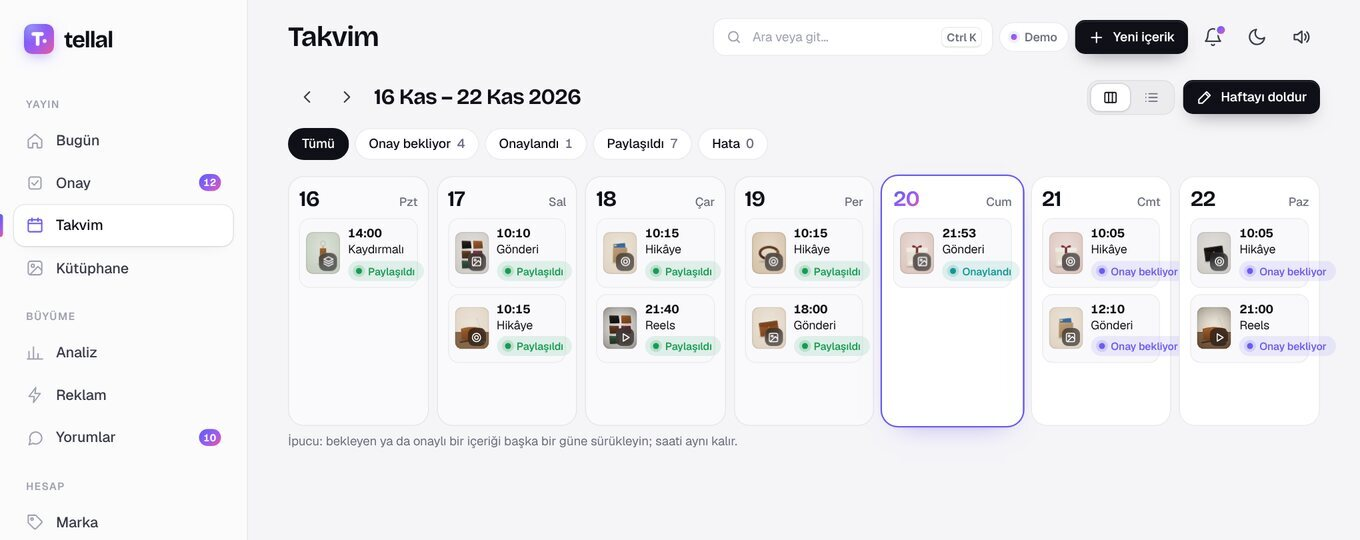
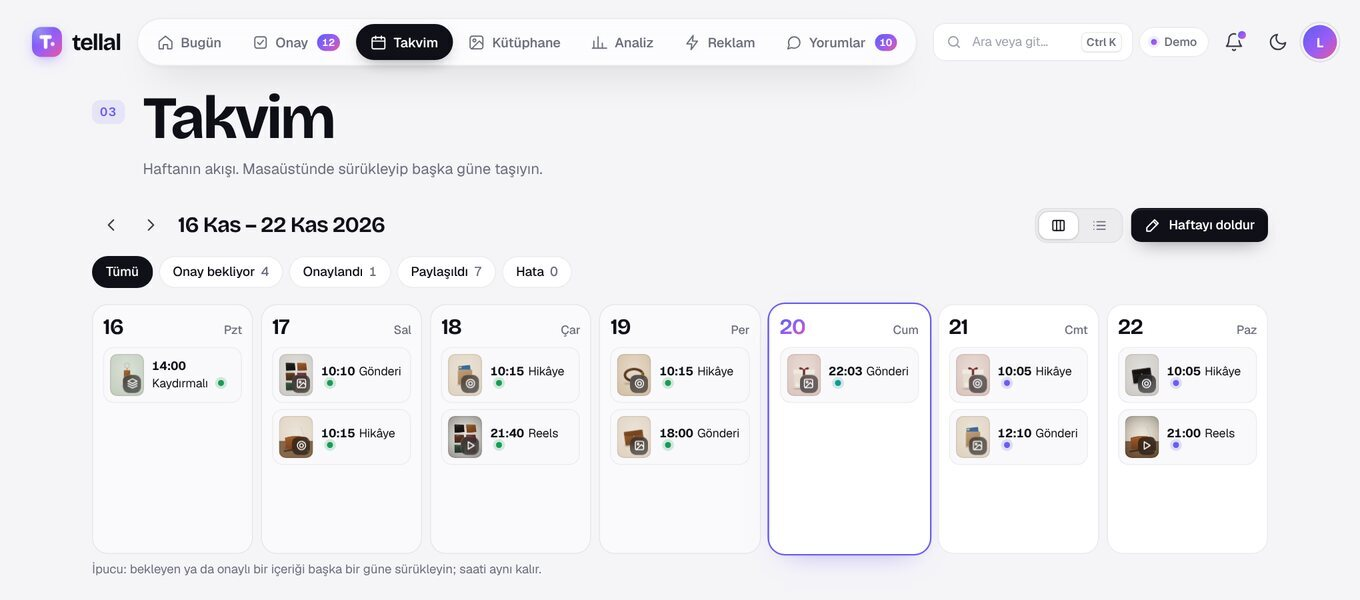
New layout: floating section bar with sliding lens, account menu, editorial page headers, bento home

diff --git a/src/tellal/static/app.js b/src/tellal/static/app.js
@@ -250,12 +250,21 @@ function paintNav() {
   $("#tabs").innerHTML = ROUTES.filter((r) => r.tab).map((r) => `<a class="tab" href="#/${r.id}" ${r.id === cur ? 'aria-current="page"' : ""}>${ic(r.icon)}<span>${t(r.key)}</span>${badge(r)}</a>`).join("")
     + `<button class="tab" id="moreTab" ${moreActive ? 'aria-current="page"' : ""}>${ic("menu")}<span>${t("more")}</span>${(S.state?.counts.comments ? '<span class="badge">' + S.state.counts.comments + "</span>" : "")}</button>`;
   $("#moreTab").onclick = () => { snd("tap"); openMore(); };
-  const link = (r) => `<a href="#/${r.id}" ${r.id === cur ? 'aria-current="page"' : ""}>${ic(r.icon)}<span>${t(r.key)}</span>${badge(r)}</a>`;
-  const groups = [[L("Yayın", "Publishing"), ["", "onay", "takvim", "kutuphane"]], [L("Büyüme", "Growth"), ["analiz", "reklam", "yorumlar"]], [L("Hesap", "Account"), ["marka", "ayarlar"]]];
-  const acc = S.state?.accounts?.[0];
-  $("#side").innerHTML = `<div class="brand"><span class="logo"></span><span class="wordmark">tellal</span></div>`
-    + groups.map(([g, ids]) => `<div class="group">${g}</div>` + ids.map((id) => link(ROUTES.find((r) => r.id === id))).join("")).join("")
-    + `<div class="foot"><span class="av">${esc((S.state?.brand?.name || "T").trim().slice(0, 1).toLocaleUpperCase("tr"))}</span><span class="grow"><b class="ellipsis">${esc(S.state?.brand?.name || "")}</b>${acc ? "@" + esc(acc.username) + " · " : ""}${S.state?.mode === "demo" ? L("demo", "demo") : "Instagram"}</span></div>`;
+  // Desktop: a floating glass bar in the middle of the header; a lens slides to the current page.
+  const navIds = ["", "onay", "takvim", "kutuphane", "analiz", "reklam", "yorumlar"];
+  const tn = $("#topnav");
+  const prevLens = tn.querySelector(".lens");
+  const from = prevLens ? { x: prevLens.style.getPropertyValue("--x"), w: prevLens.style.getPropertyValue("--w") } : null;
+  tn.innerHTML = `<span class="lens" aria-hidden="true"></span>` + navIds.map((id) => { const r = ROUTES.find((x) => x.id === id); return `<a href="#/${id}" ${id === cur ? 'aria-current="page"' : ""}>${ic(r.icon)}<span class="lbl">${t(r.key)}</span>${badge(r)}</a>`; }).join("");
+  const lens = tn.querySelector(".lens"), act = tn.querySelector("[aria-current=page]");
+  if (from && from.w) { lens.style.setProperty("--x", from.x); lens.style.setProperty("--w", from.w); }
+  requestAnimationFrame(() => {
+    if (!act) { lens.style.opacity = 0; return; }
+    lens.style.opacity = 1;
+    lens.style.setProperty("--x", act.offsetLeft + "px"); lens.style.setProperty("--w", act.offsetWidth + "px");
+  });
+  tn.onpointerover = (e) => { const a2 = e.target.closest("a"); if (a2) { lens.style.setProperty("--x", a2.offsetLeft + "px"); lens.style.setProperty("--w", a2.offsetWidth + "px"); lens.style.opacity = 1; lens.classList.add("peek"); } };
+  tn.onpointerleave = () => { lens.classList.remove("peek"); if (act) { lens.style.setProperty("--x", act.offsetLeft + "px"); lens.style.setProperty("--w", act.offsetWidth + "px"); } else lens.style.opacity = 0; };
   const acts = $("#topActions");
   const mac = /Mac|iPhone|iPad/.test(navigator.platform || navigator.userAgent);
   acts.innerHTML = `<button class="searchbtn" id="cmdBtn">${ic("search")}<span>${L("Ara veya git…", "Search or jump to…")}</span><span class="kbd">${mac ? "⌘" : "Ctrl"} K</span></button>`
@@ -264,12 +273,12 @@ function paintNav() {
     + `<button class="btn sm primary newbtn" id="newBtn">${ic("plus")} ${t("newPost")}</button>`
     + `<button class="icon-btn" id="bellBtn" aria-label="${L("Bildirimler", "Notifications")}" title="${L("Bildirimler", "Notifications")}">${ic("bell")}${unread() ? '<span class="dotn"></span>' : ""}</button>`
     + `<button class="icon-btn" id="themeBtn" aria-label="${t("theme")}" title="${t("theme")}">${ic(isDark() ? "sun" : "moon")}</button>`
-    + `<button class="icon-btn" id="sndBtn" title="${t("sound")}" aria-label="${t("sound")}">${ic(kit && kit.enabled ? "sound" : "mute")}</button>`;
+    + `<button class="avatar" id="meBtn" aria-label="${L("Hesap menüsü", "Account menu")}" aria-haspopup="menu">${esc((S.state?.brand?.name || "T").trim().slice(0, 1).toLocaleUpperCase("tr"))}</button>`;
   const dc = $("#demoChip");
   if (dc) dc.onclick = () => { snd("tap"); sheet(`<p style="margin-top:0">${L("Bu, uydurma bir işletmenin (Lale Deri Atölyesi) hesabı. Planlar, paylaşımlar, yorumlar ve sayılar simüle edilir; gerçek Instagram'a hiçbir şey gitmez.", "This is a made-up business (Lale Deri Atölyesi). Plans, posts, comments and numbers are simulated; nothing goes to real Instagram.")}</p>
     <p>${S.state.in_browser ? L("Uygulamanın tamamı şu an bu tarayıcıda çalışıyor; verileriniz cihazınızdan çıkmaz.", "The whole app is running in this browser; your data stays on this device.") : L("Gerçek hesap bağlamak için README'deki 'Instagram bağlantısı' adımlarına bakın.", "To connect a real account, see 'Connecting Instagram' in the README.")}</p>
     <p class="hint">${L("İstediğiniz gibi kurcalayın: onaylayın, silin, fotoğraf yükleyin. Ayarlar → Demoyu sıfırla ile baştan başlarsınız.", "Play freely: approve, delete, upload. Settings → Reset demo starts over.")}</p>`, { title: L("Demo modu", "Demo mode") }); };
-  $("#sndBtn").onclick = () => { if (!kit) return; kit.setEnabled(!kit.enabled); snd("tap"); paintNav(); };
+  $("#meBtn").onclick = (e) => { e.stopPropagation(); meMenu(); };
   $("#cmdBtn").onclick = $("#cmdBtn2").onclick = () => palette();
   $("#themeBtn").onclick = (e) => toggleTheme(e);
   $("#bellBtn").onclick = () => notifications();
@@ -286,6 +295,33 @@ function openMore() {
   $("#moreSearch").onclick = () => setTimeout(palette, 50);
   $("#moreTheme").onclick = (e) => { toggleTheme(e); setTimeout(() => { $("#moreTheme").innerHTML = ic(isDark() ? "sun" : "moon"); }, 50); };
   $("#moreSnd").onclick = () => { if (!kit) return; kit.setEnabled(!kit.enabled); snd("tap"); $("#moreSnd").innerHTML = ic(kit.enabled ? "sound" : "mute"); paintNav(); };
+}
+
+// ------------------------------------------------------------------ account menu
+function meMenu() {
+  const old = $(".menu"); if (old) { old.remove(); return; }
+  snd("tap");
+  const acc = S.state?.accounts?.[0], cur = route().id;
+  const m = document.createElement("div");
+  m.className = "menu"; m.setAttribute("role", "menu");
+  m.innerHTML = `<div class="menu-head"><span class="avatar lg">${esc((S.state?.brand?.name || "T").trim().slice(0, 1).toLocaleUpperCase("tr"))}</span><div class="grow"><b class="ellipsis">${esc(S.state?.brand?.name || "")}</b><small>${acc ? "@" + esc(acc.username) : ""}${S.state?.mode === "demo" ? " · demo" : ""}</small></div></div>
+    <a href="#/marka" role="menuitem" ${cur === "marka" ? 'aria-current="page"' : ""}>${ic("tag")}${t("brand")}<small>${L("ses, ürünler, ritim", "voice, products")}</small></a>
+    <a href="#/ayarlar" role="menuitem" ${cur === "ayarlar" ? 'aria-current="page"' : ""}>${ic("gear")}${t("settings")}<small>${L("hesap, yedek", "account, backup")}</small></a>
+    <hr><button role="menuitem" data-m="theme">${ic(isDark() ? "sun" : "moon")}${isDark() ? L("Açık tema", "Light theme") : L("Koyu tema", "Dark theme")}</button>
+    <button role="menuitem" data-m="sound">${ic(kit && kit.enabled ? "mute" : "sound")}${kit && kit.enabled ? L("Sesleri kapat", "Sounds off") : L("Sesleri aç", "Sounds on")}</button>
+    <button role="menuitem" data-m="keys">${ic("keyboard")}${L("Kısayollar", "Shortcuts")}<small>?</small></button>`;
+  document.body.append(m);
+  const close = () => { m.remove(); document.removeEventListener("click", outside); };
+  const outside = (e) => { if (!m.contains(e.target)) close(); };
+  setTimeout(() => document.addEventListener("click", outside), 0);
+  m.addEventListener("keydown", (e) => { if (e.key === "Escape") close(); });
+  m.onclick = (e) => {
+    const b = e.target.closest("[data-m],a"); if (!b) return;
+    const k = b.dataset.m; close();
+    if (k === "theme") toggleTheme(e);
+    if (k === "sound" && kit) { kit.setEnabled(!kit.enabled); snd("tap"); }
+    if (k === "keys") shortcutsSheet();
+  };
 }
 
 // ------------------------------------------------------------------ theme switch (circle reveal)
@@ -401,12 +437,26 @@ function shortcutsSheet() {
     ${k("?")}<span>${L("Bu listeyi göster", "Show this list")}</span></div>`, { title: L("Klavye kısayolları", "Keyboard shortcuts") });
 }
 
+// Every page opens with an editorial header: an index number, a large title and one line of context.
+const PAGE_SUB = {
+  onay: () => S.state?.counts.pending ? L(`${S.state.counts.pending} içerik kararınızı bekliyor`, `${S.state.counts.pending} posts waiting for your call`) : L("Karar bekleyen içerik yok", "Nothing waiting for you"),
+  takvim: () => L("Haftanın akışı. Masaüstünde sürükleyip başka güne taşıyın.", "The week's flow. On desktop, drag to move."),
+  kutuphane: () => L(`${S.state?.counts.media || 0} fotoğraf ve video. Tellal içerikleri bunlardan yazar.`, `${S.state?.counts.media || 0} photos and videos. Posts are written from these.`),
+  analiz: () => L("Ne işe yaradı, ne zaman. Hepsi erişim başına.", "What worked, and when. All per reach."),
+  reklam: () => L("Organik olarak kendini kanıtlamış gönderiler ve dürüst bütçe aralıkları.", "Posts that proved themselves, with honest budget ranges."),
+  yorumlar: () => S.state?.counts.comments ? L(`${S.state.counts.comments} yorum yanıt bekliyor`, `${S.state.counts.comments} comments to answer`) : L("Yanıt bekleyen yorum yok", "Nothing to answer"),
+  marka: () => L("Tellal'ın sizin gibi konuşması için gereken her şey.", "Everything Tellal needs to sound like you."),
+  ayarlar: () => L("Hesap, görünüm, yedek.", "Account, look, backup."),
+};
+function pageHead(r) {
+  const i = ROUTES.indexOf(r) + 1;
+  return `<header class="ph"><span class="idx">${String(i).padStart(2, "0")}</span><div><h1>${esc(t(r.key))}</h1><p>${esc((PAGE_SUB[r.id] || (() => ""))())}</p></div></header>`;
+}
 let renderSeq = 0;
 async function render() {
   const { id, q } = route();
   const r = ROUTES.find((x) => x.id === id) || ROUTES[0];
   document.title = (r.id ? t(r.key) + " · " : "") + "Tellal";
-  $("#title").textContent = t(r.key);
   paintNav();
   const seq = ++renderSeq;
   // A fresh element each time, so listeners a page added don't leak into the next page.
@@ -416,7 +466,7 @@ async function render() {
   try {
     const html = await r.render(q);
     if (seq !== renderSeq) return;
-    if (typeof html === "string") view.innerHTML = html;
+    if (typeof html === "string") view.innerHTML = (r.id ? pageHead(r) : "") + html;
     hydrate(view);
     r.after && r.after();
   } catch (e) {
@@ -576,9 +626,23 @@ async function viewToday() {
     return `<a href="#/takvim" class="${d === startOfDay(now) ? "today" : ""}"><small>${esc(dt(d, { weekday: "short" }))}</small><b>${esc(dt(d, { day: "numeric" }))}</b><span class="dots">${ps.slice(0, 4).map((p) => `<i class="${p.status === "pending" ? "p" : p.status === "published" ? "d" : ""}"></i>`).join("")}</span></a>`;
   }).join("")}</div><div class="legend" style="justify-content:center"><span><i style="width:7px;height:7px;border-radius:50%;background:var(--accent)"></i>${t("pending")}</span><span><i style="width:7px;height:7px;border-radius:50%;background:var(--teal)"></i>${t("approved")}</span><span><i style="width:7px;height:7px;border-radius:50%;background:var(--ok)"></i>${t("published")}</span></div>`;
   const chg = an && an.change && an.change.reach;
-  const reach = an && an.series ? `<div class="card"><div class="spread"><div><div class="eyebrow">${L("Erişim · son 30 gün", "Reach · last 30 days")}</div><div class="bigstat" style="margin-top:6px"><b data-count="${an.totals.reach}">${nf(an.totals.reach)}</b>${chg != null ? `<span class="delta ${chg >= 0 ? "up" : "down"}">${chg >= 0 ? "▲" : "▼"} ${pct(Math.abs(chg), 0)}</span>` : ""}</div></div><a class="btn sm ghost" href="#/analiz">${t("analysis")} ${ic("right")}</a></div><div style="margin-top:12px">${lineChart(an.series, { h: 120, compact: true })}</div></div>` : "";
+  const reach = an && an.series ? `<div class="card"><div class="spread"><div><div class="eyebrow">${L("Erişim · son 30 gün", "Reach · last 30 days")}</div><div class="bigstat" style="margin-top:6px"><b data-count="${an.totals.reach}">${nf(an.totals.reach)}</b>${chg != null ? `<span class="delta ${chg >= 0 ? "up" : "down"}">${chg >= 0 ? "▲" : "▼"} ${pct(Math.abs(chg), 0)}</span>` : ""}</div></div><a class="btn sm ghost" href="#/analiz">${t("analysis")} ${ic("right")}</a></div><div style="margin-top:12px">${lineChart(an.series, { h: 150, compact: true, w: (($("#view") && $("#view").clientWidth) || 360) * (innerWidth >= 1000 ? 0.62 : 1) - 52 })}</div></div>` : "";
   const overview = `<div class="cols" style="margin-top:22px"><div class="card"><div class="spread" style="margin-bottom:10px"><div class="eyebrow">${L("Bu hafta", "This week")}</div><a class="btn sm ghost" href="#/takvim">${t("calendar")} ${ic("right")}</a></div>${strip}</div>${reach}</div>`;
-  return `${hero}${setup}${stats}${failed}${overview}<div class="cols"><div><div class="section"><h2>${L("Sıradaki paylaşımlar", "Up next")}</h2><a class="btn sm ghost" href="#/takvim">${t("calendar")} ${ic("right")}</a></div><div class="card"><div class="list">${next}</div></div></div><div>${occ}${ev}</div></div>`;
+  // Bento: one grid of tiles in different sizes instead of stacked sections.
+  const tile = (cls, inner, href) => href ? `<a class="tile-b ${cls}" href="${href}">${inner}</a>` : `<section class="tile-b ${cls}">${inner}</section>`;
+  const occList = st.occasions.slice(0, 3).map((o) => `<div class="occ"><span class="when"><b>${o.in_days}</b><small>${L("gün", "days")}</small></span><span class="grow"><b class="ellipsis">${esc(o.name)}</b><small>${esc(new Date(o.date + "T12:00:00").toLocaleDateString(LANG === "tr" ? "tr-TR" : "en-GB", { day: "numeric", month: "long" }))}</small></span></div>`).join("") || `<small>${L("Yakında özel gün yok.", "No occasions soon.")}</small>`;
+  const evList = st.events.slice(0, 5).map((e) => `<div class="ev" ${e.post_id ? `data-open="${e.post_id}"` : ""}><i></i><span class="grow">${esc(e.message)}</span><small>${relDay(e.ts) === L("Bugün", "Today") ? hm(e.ts) : esc(dt(e.ts, { day: "numeric", month: "short" }))}</small></div>`).join("");
+  return `${setup}${failed}<div class="bento">
+    ${tile("b-hero", `<div class="mesh" aria-hidden="true"></div>${hero}`)}
+    ${tile("b-pending" + (c.pending ? " hot" : ""), `<span class="eyebrow">${t("pending")}</span><b data-count="${c.pending}">${c.pending}</b><span class="go">${L("Onaya git", "Review")} ${ic("right")}</span>`, "#/onay")}
+    ${tile("b-mini", `<span class="eyebrow">${L("Sırada", "Queued")}</span><b data-count="${c.approved}">${c.approved}</b>`, "#/takvim")}
+    ${tile("b-mini", `<span class="eyebrow">${L("Yorum", "Comments")}</span><b data-count="${c.comments}">${c.comments}</b>`, "#/yorumlar")}
+    ${tile("b-chart", reach ? reach.replace('<div class="card">', "<div>") : `<span class="eyebrow">${t("reach")}</span>`)}
+    ${tile("b-week", `<div class="spread" style="margin-bottom:12px"><span class="eyebrow">${L("Bu hafta", "This week")}</span><a class="btn sm ghost" href="#/takvim">${t("calendar")} ${ic("right")}</a></div>${strip}`)}
+    ${tile("b-next", `<div class="spread"><span class="eyebrow">${L("Sıradaki paylaşımlar", "Up next")}</span><span class="muted num">${c.published_7d} ${L("paylaşım / 7 gün", "posts / 7 days")}</span></div><div class="list" style="margin-top:6px">${next}</div>`)}
+    ${tile("b-occ", `<span class="eyebrow">${L("Yaklaşan özel günler", "Coming up")}</span><div style="margin-top:10px">${occList}</div>`)}
+    ${tile("b-ev", `<span class="eyebrow">${L("Son hareketler", "Activity")}</span><div class="evs">${evList}</div>`)}
+  </div>`;
 }
 document.addEventListener("click", (e) => {
   const o = e.target.closest("[data-open]");
@@ -648,7 +712,7 @@ async function viewApprove() {
   DECK.sort((a, b) => (a.scheduled_at || 9e12) - (b.scheduled_at || 9e12));
   if (!DECK.length) return `<div class="empty">${ic("check")}<h3>${t("noPending")}</h3><p>${t("noPendingT")}</p><button class="btn primary" id="planBtn">${ic("wand")} ${t("planWeek")}</button></div>`;
   DECK_TOTAL = DECK.length;
-  const toggle = `<div class="toolbar"><div class="left"><span class="muted">${L(`${DECK.length} içerik onay bekliyor`, `${DECK.length} waiting for review`)}</span></div><div class="right"><div class="seg" id="revV"><button data-v="cards" aria-pressed="${reviewView === "cards"}">${ic("cards")} ${L("Kart", "Cards")}</button><button data-v="list" aria-pressed="${reviewView === "list"}">${ic("list")} ${L("Liste", "List")}</button></div></div></div>`;
+  const toggle = `<div class="toolbar"><div class="left"></div><div class="right"><div class="seg" id="revV"><button data-v="cards" aria-pressed="${reviewView === "cards"}">${ic("cards")} ${L("Kart", "Cards")}</button><button data-v="list" aria-pressed="${reviewView === "list"}">${ic("list")} ${L("Liste", "List")}</button></div></div></div>`;
   if (reviewView === "list") return toggle + reviewTable();
   return toggle + `<div id="deckBox"></div>`;
 }

diff --git a/src/tellal/static/app.css b/src/tellal/static/app.css
@@ -631,3 +631,119 @@ details.more[open] summary::before{transform:rotate(45deg)}
 .kpi .delta{display:inline-flex;margin:0 0 0 4px}
 .chip svg{width:14px;height:14px}
 @media (max-width:899px){#themeBtn,#sndBtn{display:none}.demo-chip{padding:0 9px}.top h1{font-size:22px}}
+
+/* =====================================================================
+   v5 layout: no sidebar. A floating glass bar in the header with a lens
+   that slides between sections, editorial page headers, a bento home.
+   ===================================================================== */
+.side{display:none!important}
+.top{display:grid;grid-template-columns:1fr auto 1fr;align-items:center;gap:16px;padding:calc(14px + var(--safe-t)) 18px 12px}
+.top-actions{justify-self:end}
+.brandlink{display:inline-flex;align-items:center;gap:10px;text-decoration:none;color:var(--ink);justify-self:start}
+.brandlink .logo{display:block;width:30px;height:30px;border-radius:9px}
+.brandlink:hover .logo{transform:rotate(-8deg) scale(1.05)}
+.brandlink .logo{transition:transform .4s var(--spring)}
+.topnav{display:none;position:relative;align-items:center;gap:2px;padding:5px;border-radius:999px;background:var(--glass);border:1px solid var(--line);
+  backdrop-filter:saturate(1.8) blur(20px);-webkit-backdrop-filter:saturate(1.8) blur(20px);box-shadow:var(--shadow-hi)}
+.topnav a{position:relative;z-index:1;display:inline-flex;align-items:center;gap:7px;height:36px;padding:0 14px;border-radius:999px;color:var(--muted);text-decoration:none;font-size:13.5px;font-weight:550;white-space:nowrap;transition:color .25s}
+.topnav a svg{width:17px;height:17px;stroke-width:1.8}
+.topnav a:hover{color:var(--ink)}
+.topnav a[aria-current=page]{color:var(--on-primary)}
+.topnav .badge{position:static;margin-left:2px;box-shadow:none}
+.topnav .lens{position:absolute;z-index:0;top:5px;bottom:5px;left:0;width:var(--w,0);transform:translateX(var(--x,0));border-radius:999px;background:var(--primary);
+  box-shadow:0 6px 18px -8px rgba(16,17,24,.6);transition:transform .5s var(--spring),width .5s var(--spring),opacity .25s,background .25s}
+.topnav .lens.peek{background:color-mix(in srgb,var(--primary) 85%,var(--accent))}
+.topnav:has(a:hover) a[aria-current=page]:not(:hover){color:var(--muted)}
+.topnav a:hover{color:var(--on-primary)}
+@media (min-width:1000px){.topnav{display:inline-flex}.top{padding:18px 32px 14px}}
+@media (min-width:1000px) and (max-width:1279px){.topnav a .lbl{display:none}.topnav a[aria-current=page] .lbl{display:inline}}
+.avatar{display:inline-grid;place-items:center;width:34px;height:34px;border-radius:50%;border:0;background:var(--grad);color:#fff;font:700 14px var(--display);box-shadow:0 0 0 2px var(--bg),0 0 0 3.5px var(--line);transition:transform .3s var(--spring)}
+.avatar:hover{transform:scale(1.07)}
+.avatar.lg{width:40px;height:40px;font-size:16px;box-shadow:none}
+@media (max-width:999px){#meBtn{display:none}}
+.searchbtn{min-width:200px}
+@media (max-width:1279px){.searchbtn{min-width:0;width:38px;padding:0;justify-content:center}.searchbtn span:not(.kbd),.searchbtn .kbd{display:none}}
+.newbtn{display:none!important}
+.menu{position:fixed;top:64px;right:24px;z-index:65;width:260px;padding:8px;border-radius:18px;background:var(--card);border:1px solid var(--line);box-shadow:var(--shadow-lg);animation:pop .3s var(--spring);transform-origin:top right}
+.menu-head{display:flex;align-items:center;gap:10px;padding:8px 8px 12px}
+.menu-head small{display:block;color:var(--muted);font-size:12px}
+.menu a,.menu button{display:flex;align-items:center;gap:10px;width:100%;padding:9px 10px;border:0;border-radius:11px;background:none;color:var(--ink2);text-decoration:none;font-size:13.5px;text-align:left}
+.menu a small,.menu button small{margin-left:auto;color:var(--faint);font-size:11.5px}
+.menu svg{width:17px;height:17px;color:var(--faint)}
+.menu a:hover,.menu button:hover,.menu a[aria-current=page]{background:var(--hover);color:var(--ink)}
+.menu hr{border:0;height:1px;background:var(--line2);margin:6px 4px}
+main{max-width:1240px;padding-top:6px}
+@media (min-width:1000px){main{padding:4px 32px 64px}}
+
+/* editorial page header */
+.ph{display:flex;align-items:flex-start;gap:18px;margin:6px 0 26px}
+.ph .idx{margin-top:10px;font:600 12px/1 var(--sans);letter-spacing:.08em;padding:6px 8px;border-radius:8px;color:var(--accent);background:var(--accent-soft);font-variant-numeric:tabular-nums}
+.ph h1{font-size:clamp(36px,6vw,60px);line-height:.95;letter-spacing:-.05em;font-weight:700}
+.ph p{margin:10px 0 0;color:var(--muted);font-size:15px;max-width:620px}
+@media (max-width:699px){.ph{gap:12px;margin-bottom:20px}.ph .idx{margin-top:6px}}
+
+/* bento home */
+.bento{display:grid;grid-template-columns:repeat(2,minmax(0,1fr));gap:12px;margin-top:4px}
+.tile-b{position:relative;display:block;min-width:0;padding:20px;border-radius:26px;background:var(--card);border:1px solid var(--line);box-shadow:var(--shadow);color:inherit;text-decoration:none;overflow:hidden;
+  animation:rise .55s var(--ease) both;transition:transform .35s var(--ease),box-shadow .35s}
+.tile-b{background-image:radial-gradient(420px circle at var(--mx,-999px) var(--my,-999px),var(--spot),transparent 45%)}
+a.tile-b:hover{transform:translateY(-3px);box-shadow:var(--shadow-hi)}
+.bento>.tile-b:nth-child(2){animation-delay:.05s}.bento>.tile-b:nth-child(3){animation-delay:.1s}.bento>.tile-b:nth-child(4){animation-delay:.14s}
+.bento>.tile-b:nth-child(5){animation-delay:.18s}.bento>.tile-b:nth-child(6){animation-delay:.22s}.bento>.tile-b:nth-child(n+7){animation-delay:.26s}
+.b-hero,.b-chart,.b-week,.b-next,.b-occ,.b-ev,.b-pending{grid-column:span 2}
+.b-hero{padding:28px;min-height:260px}
+.b-hero .greet{position:relative;z-index:1;padding:0}
+.b-hero .greet h2{font-size:clamp(38px,6vw,64px)}
+.mesh{position:absolute;inset:-30%;z-index:0;opacity:.55;filter:blur(40px);
+  background:radial-gradient(30% 35% at 70% 30%,rgba(124,92,246,.55),transparent 70%),radial-gradient(28% 30% at 90% 75%,rgba(240,86,155,.45),transparent 70%),radial-gradient(30% 30% at 45% 90%,rgba(91,95,246,.35),transparent 70%);
+  animation:meshmove 18s ease-in-out infinite alternate}
+:root[data-theme=dark] .mesh{opacity:.8}
+@media (prefers-color-scheme:dark){:root:not([data-theme=light]) .mesh{opacity:.8}}
+@keyframes meshmove{50%{transform:translate(-4%,3%) rotate(8deg) scale(1.05)}to{transform:translate(3%,-2%) rotate(-6deg)}}
+.tile-b>.eyebrow{display:block}
+.b-pending,.b-mini{display:flex;flex-direction:column;justify-content:space-between;min-height:140px}
+.b-pending b,.b-mini b{font-family:var(--display);font-weight:700;letter-spacing:-.06em;line-height:.9;font-variant-numeric:tabular-nums}
+.b-pending b{font-size:clamp(64px,9vw,104px)}
+.b-mini b{font-size:52px}
+.b-pending .go{display:inline-flex;align-items:center;gap:4px;font-size:13px;font-weight:600;color:var(--muted)}
+.b-pending .go svg{width:15px;height:15px;transition:transform .3s var(--spring)}
+.b-pending:hover .go svg{transform:translateX(4px)}
+.b-pending.hot{background:var(--grad);border-color:transparent;color:#fff;box-shadow:0 24px 50px -24px rgba(124,92,246,.9)}
+.b-pending.hot .eyebrow,.b-pending.hot .go{color:rgba(255,255,255,.85)}
+.b-pending.hot::after{content:"";position:absolute;right:-60px;bottom:-60px;width:220px;height:220px;border-radius:50%;border:30px solid rgba(255,255,255,.12)}
+.b-chart .bigstat b{font-size:48px}
+.occ{display:flex;align-items:center;gap:12px;padding:8px 0}
+.occ+.occ{box-shadow:0 -1px 0 var(--line2)}
+.occ .when{display:flex;flex-direction:column;align-items:center;justify-content:center;width:48px;height:48px;border-radius:14px;background:var(--accent-soft);color:var(--accent);flex:none;line-height:1}
+.occ .when b{font:700 18px var(--display);letter-spacing:-.03em}
+.occ .when small{font-size:10px;color:inherit}
+.occ .grow b{display:block;font-weight:600;font-size:13.5px}
+.occ .grow small{font-size:12px}
+.evs{position:relative;margin-top:10px}
+.evs::before{content:"";position:absolute;left:4px;top:8px;bottom:8px;width:1px;background:var(--line)}
+.ev{position:relative;display:flex;align-items:flex-start;gap:12px;padding:7px 0;font-size:13px;cursor:default}
+.ev[data-open]{cursor:pointer}
+.ev i{width:9px;height:9px;margin-top:5px;border-radius:50%;background:var(--card);border:2px solid var(--accent);flex:none;z-index:1}
+.ev:first-child i{background:var(--grad);border-color:transparent;box-shadow:0 0 0 4px var(--accent-soft)}
+.ev small{white-space:nowrap;font-size:11.5px}
+@media (min-width:700px){
+  .bento{grid-template-columns:repeat(4,minmax(0,1fr));gap:14px}
+  .b-hero,.b-chart,.b-week,.b-next{grid-column:span 4}
+  .b-pending{grid-column:span 2}.b-mini{grid-column:span 1}
+  .b-occ,.b-ev{grid-column:span 2}
+}
+@media (min-width:1000px){
+  .bento{grid-template-columns:repeat(12,minmax(0,1fr));grid-auto-flow:dense}
+  .b-hero{grid-column:span 8;grid-row:span 2}
+  .b-pending{grid-column:span 4}
+  .b-mini{grid-column:span 2}
+  .b-chart{grid-column:span 8}
+  .b-week{grid-column:span 4}
+  .b-next{grid-column:span 5}.b-occ{grid-column:span 3}.b-ev{grid-column:span 4}
+}
+/* mobile header: brand left, a few actions right */
+@media (max-width:999px){.top{grid-template-columns:1fr auto}.topnav{display:none}}
+.slot .pill{font-size:0;gap:0;padding:0;height:auto;background:none;margin:0 0 0 6px;vertical-align:1px}
+.slot .meta{display:flex;flex-wrap:wrap;align-items:center;column-gap:4px}
+.slot .meta br{display:none}
+.slot .meta b{order:-1}

diff --git a/src/tellal/static/index.html b/src/tellal/static/index.html
@@ -19,10 +19,11 @@
 </head>
 <body>
 <div class="shell">
-  <aside class="side" id="side"></aside>
+  <aside class="side" id="side" hidden></aside>
   <div class="main">
     <header class="top">
-      <div class="top-title"><span class="logo" aria-hidden="true"></span><h1 id="title">Tellal</h1></div>
+      <a class="brandlink" href="#/" aria-label="Tellal"><span class="logo" aria-hidden="true"></span><span class="wordmark">tellal</span></a>
+      <nav class="topnav" id="topnav" aria-label="Bölümler"></nav>
       <div class="top-actions" id="topActions"></div>
     </header>
     <div class="banner" id="banner" hidden></div>

diff --git a/README.md b/README.md
@@ -65,6 +65,8 @@ A small shop on Instagram usually has three problems: no time to post regularly,
 
 Tellal has its own look rather than a borrowed one. Graphite and white, with one aurora gradient (violet to orchid to rose) used only as a signal: what is waiting for you, the action that matters, the line in a chart. The mark is a rounded **T** with a dot, the crier's announcement. Headings are set in Bricolage Grotesque, the interface in Geist; both are bundled (SIL Open Font License), so it looks the same offline.
 
+The layout has no sidebar. Sections live in a floating glass bar in the header, where a dark lens slides to the page you are on (and follows the pointer as you look around); the account menu sits behind your initial. Every page opens with an editorial header: an index number, a large title and one line of context, such as how many posts are waiting. The home screen is a bento grid: a greeting over a slowly moving colour mesh, a large tile for what needs your decision, the reach line, the week, what's next, coming occasions and a timeline of what happened. On phones the bar becomes a floating dock at the bottom.
+
 Light and dark are designed separately, not inverted: soft ambient light behind the page, glass navigation, a floating dock on phones. Motion is short and purposeful: pages rise in, numbers count up, the reach line draws itself, cards catch a light under the pointer, the theme switch opens as a circle from the button, the review cards move on springs. Everything falls back to still when the system asks for reduced motion.
 
 The editor scores each draft for readiness (hook in the first line, a send or save invite, a call to action, 3–5 hashtags, alt text, time, no errors) so it's clear what's missing before approving. Notifications collect what happened while you were away, and comment replies can be saved and reused.
